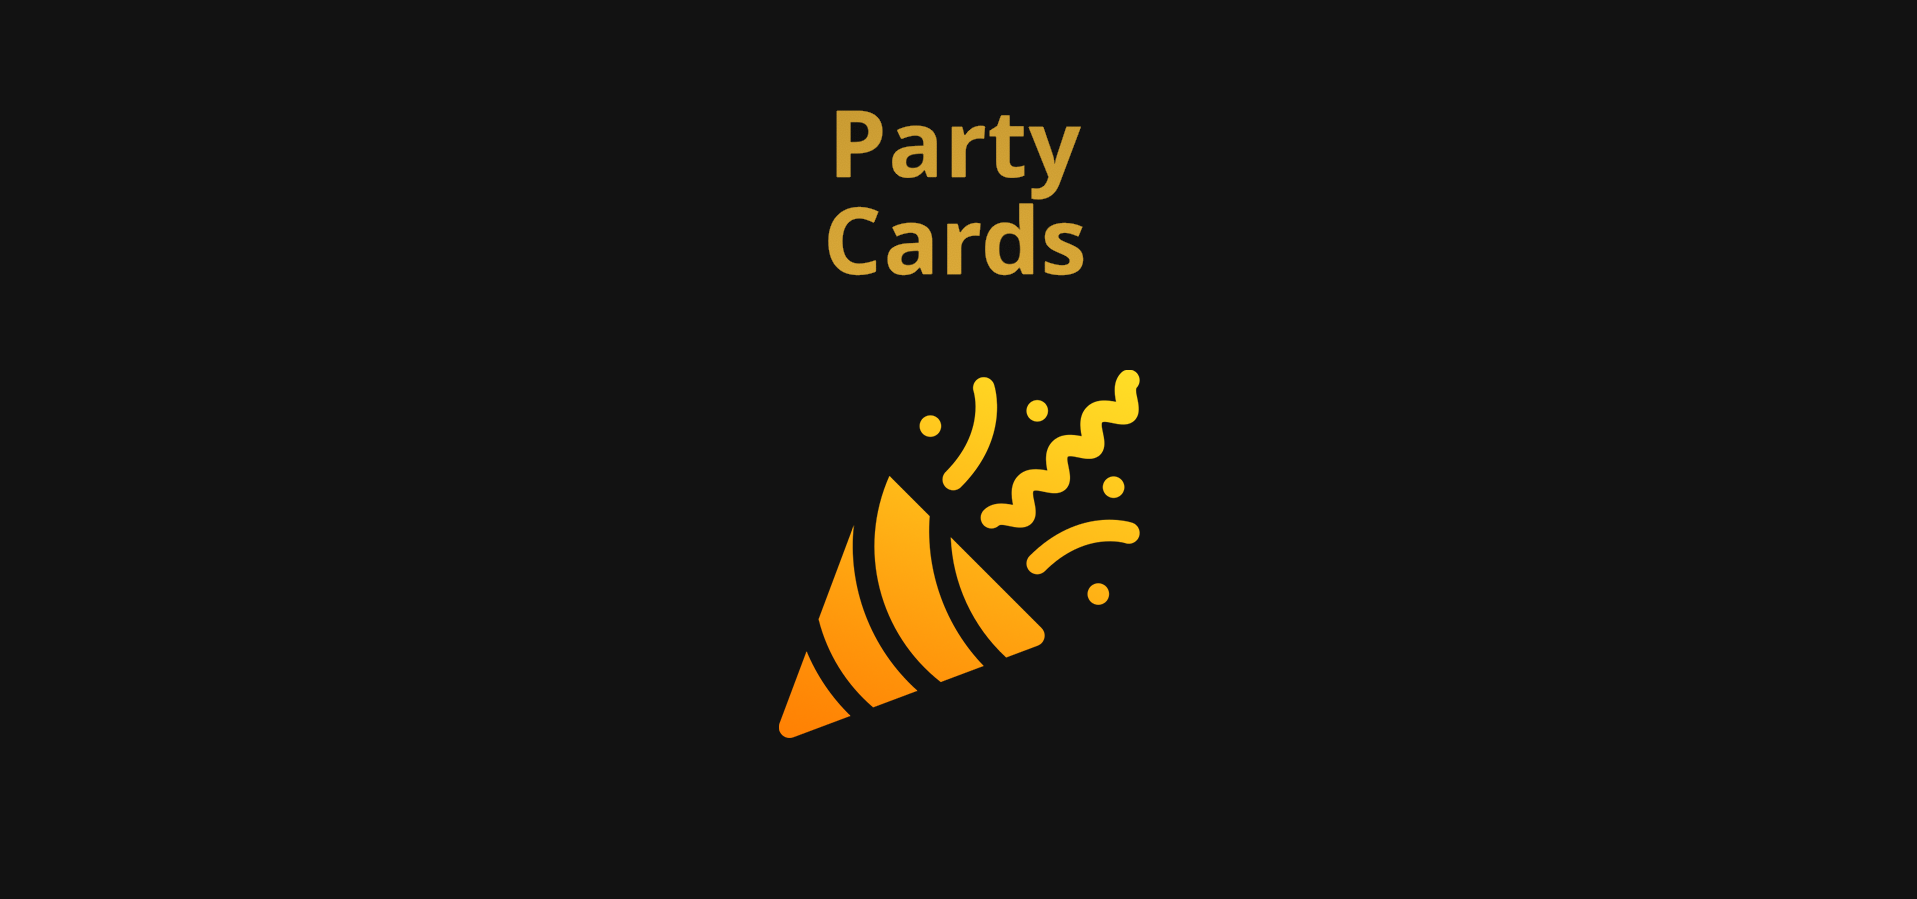
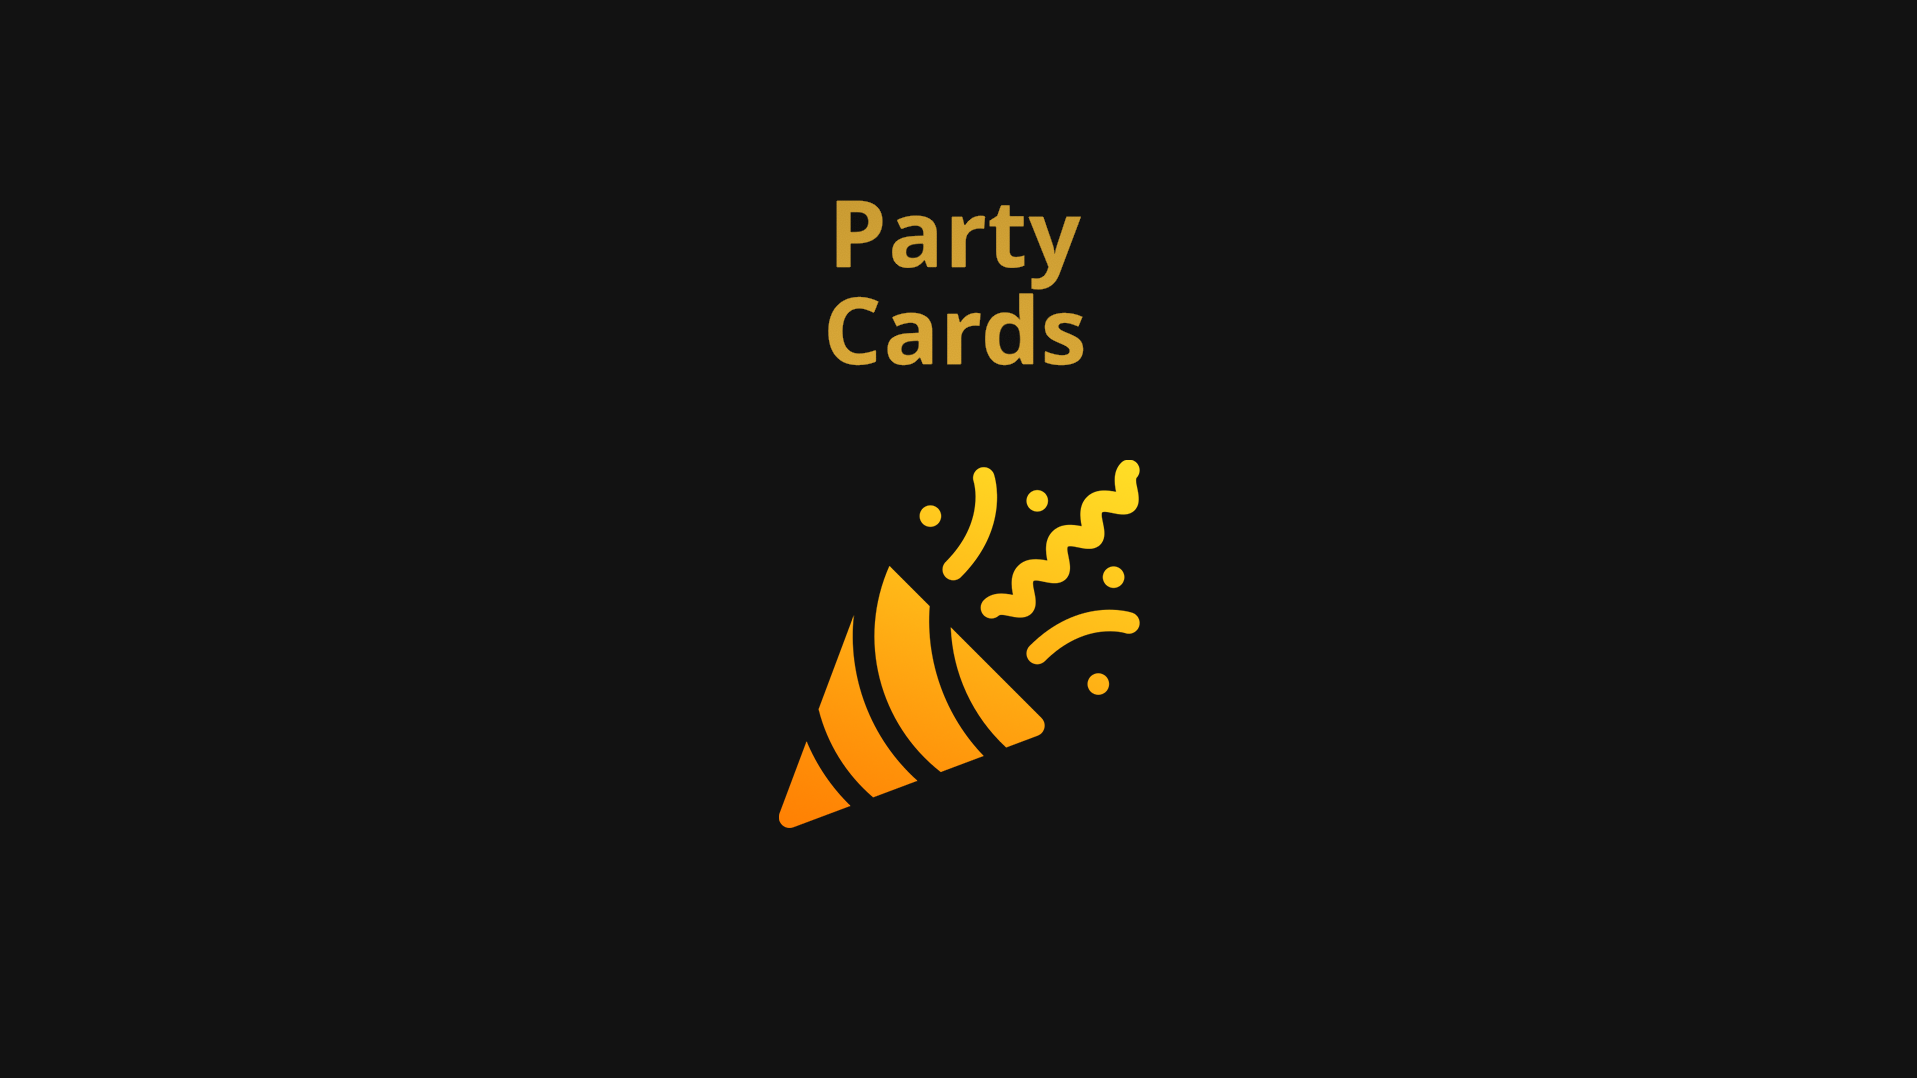
Added bubbles to stuff. Centered party cards images. Updated RagBrawl section

diff --git a/index.html b/index.html
@@ -52,14 +52,6 @@
 		// end if innerWidth
 		}); 
 	</script>
-	<script type='text/javascript'>
-  		window.smartlook||(function(d) {
-    		var o=smartlook=function(){ o.api.push(arguments)},h=d.getElementsByTagName('head')[0];
-    		var c=d.createElement('script');o.api=new Array();c.async=true;c.type='text/javascript';
-    		c.charset='utf-8';c.src='https://web-sdk.smartlook.com/recorder.js';h.appendChild(c);
-    		})(document);
-    		smartlook('init', 'c72ebc8b6f88d7aec70b2bd057baf31da15350ce', { region: 'eu' });
-	</script>
 </head>
 <body style="background-color: #101E2E">
 	<!-- NAVBAR -->
@@ -112,7 +104,7 @@
 					<div class="carousel-inner">
 						<div class="carousel-item active">
 							<div class="ratio ratio-16x9">
-								<iframe src="https://www.youtube.com/embed/vOSQc6iJS9c" title="RagBrawl trailer" class="float-end rounded-5 border-bottom border-end border-secondary border-5"></iframe>
+								<iframe src="https://www.youtube.com/embed/w8vdS8wCYsk" title="RagBrawl trailer" class="float-end rounded-5 border-bottom border-end border-secondary border-5" allow="accelerometer;"></iframe>
 							</div>
 						</div>
 						<div class="carousel-item">
@@ -131,7 +123,7 @@
 						</div>
 					</div>
 				</div>
-				<div class="d-flex flex-row justify-content-center justify-content-md-end">
+				<div class="d-flex flex-row justify-content-center">
 					<button class="btn btn-secondary" type="button" data-bs-target="#featuredCarousel" data-bs-slide="prev">
 						<span class="carousel-control-prev-icon" aria-hidden="true"></span>
 						<span class="visually-hidden">Previous</span>
@@ -145,7 +137,7 @@
 			</div>
 			<!-- Featured project content-->
 			<div class="col-10 offset-1 col-md-5 offset-md-0">
-				<div class="text-center text-md-start"><h2><u><strong>Stuffed!</strong></u></h2></div>
+				<div class="text-center text-md-start"><h2><u><strong>RagBrawl</strong></u></h2></div>
 				<!-- Bubbles -->
 				<div>
 					<span class="badge rounded-pill bg-secondary" style="font-size:15px">Unreal Engine 5</span>
@@ -156,7 +148,7 @@
 					<span class="badge rounded-pill bg-success" style="font-size:15px">UI</span>
 					<br></br>
 				</div>
-				<h6><strong>What it is:</strong> An online 8-player third-person shooter/party game. Take control of a Tuffling and win the attention of your creator. Players have access to a variety of movement options such as ragdolling, custom gravity, and grappling hooks. This concept was created as part of my college capstone and was passed through greenlight to continue production in the following semester.</h6>
+				<h6><strong>What it is:</strong> An online 12-player third-person shooter/party game. Take control of a Tuffling and win the attention of your creator. Players have access to a variety of movement options such as ragdolling, custom gravity, and grappling hooks. This concept was created as part of my college capstone and was passed through greenlight to continue production in the following semester.</h6>
 				<h6><strong>What I did:</strong></h6>
 				<ul>
 					<li><h6>Built on top of Unreal Engine's CharacterMovementComponent in C++ to create custom networked movement.</h6></li>
@@ -166,7 +158,7 @@
 					<li><h6>Made spatial audio play for all clients using Blueprints.</h6></li>
 				</ul>
 				<h6><strong>Team size:</strong> 13 (originally 7)</h6>
-				<h6><strong>Project time period:</strong> 7 months (September 2022 - March 2023)</h6>
+				<h6><strong>Project time period:</strong> 8 months (September 2022 - April 2023)</h6>
 			</div>
 		</div>
 	</div>
@@ -235,7 +227,7 @@
 						</button>
 					</div>
 					<!-- Bubbles -->
-					<div>
+					<div class="my-3">
 						<span class="badge rounded-pill bg-secondary" style="font-size:15px">Unity Engine</span>
 						<span class="badge rounded-pill bg-primary" style="font-size:15px">C#</span>
 						<span class="badge rounded-pill bg-success" style="font-size:15px">Networking</span>
@@ -243,7 +235,7 @@
 						<span class="badge rounded-pill bg-success" style="font-size:15px">Steamworks</span>
 					</div>
 					<!-- Content -->
-					<div class="text-start pt-3">
+					<div class="text-start">
 						<h5><strong>What it is:</strong> An online co-op game all about fighting bullies while trying to get to school. Players can pick up various items to boost their stats and use special weapons with their buddy. Back in my Day was created in 10 weeks for the <strong>2022 Ubisoft Game Lab Competition and was nominated for best game design</strong>. The game was created in Unity and networked using the Steam backend and Facepunch Steamworks. Check it out on itch.io here: <a href="https://jollycoopco.itch.io/backinmyday" class="link-info">jollycoopco.itch.io/backinmyday</a>.</h5>
 						<h5><strong>What I did:</strong></h5>
 						<ul>
@@ -296,7 +288,7 @@
 						</button>
 					</div>
 					<!-- Bubbles -->
-					<div>
+					<div class="my-3">
 						<span class="badge rounded-pill bg-secondary" style="font-size:15px">Unreal Engine 4</span>
 						<span class="badge rounded-pill bg-primary" style="font-size:15px">Blueprints</span>
 						<span class="badge rounded-pill bg-success" style="font-size:15px">Gameplay</span>
@@ -305,7 +297,7 @@
 						<span class="badge rounded-pill bg-success" style="font-size:15px">Game Jam</span>
 					</div>
 					<!-- Content -->
-					<div class="text-start pt-3">
+					<div class="text-start">
 						<h5><strong>What it is:</strong> A side-scrolling co-op game about moving a TV through a city. Each character can only see in front of them so players have to communicate to safely get through obstacles. Supports LAN / online play. This game was created in Unreal Engine for the ArtCenter 2021 Game Jam. It <strong>won the Best in Theme award</strong> and placed second in the community vote. Check it out on itch.io here: <a href="https://rhyssullivan.itch.io/busybeemovers" class="link-info">rhyssullivan.itch.io/busybeemovers</a>.</h5>
 						<h5><strong>What I did:</strong></h5>
 						<ul>
@@ -332,12 +324,16 @@
 								</div>
 							</div>
 							<div class="carousel-item">
-								<img src="images/partycards/partycardsscreenshot.webp" class="rounded-5 float-md-end img-fluid border-bottom border-end border-dark border-5" alt="Party Cards screenshot" style="max-height:500px">
+								<div class="d-flex justify-content-center align-items-center">
+									<img src="images/partycards/partycardsscreenshot.webp" class="rounded-5 img-fluid border-bottom border-end border-dark border-5" alt="Party Cards screenshot" style="max-height:500px">
+								</div>
 							</div>
 							<div class="carousel-item">
-								<video autoplay loop muted class="rounded-5 float-md-end border-bottom border-end border-dark border-5" style="max-height:500px">
-									<source src="images/partycards/partycardsgif.webm" alt="Party Cards throwing" />
-								</video>
+								<div class="d-flex justify-content-center align-items-center">
+									<video autoplay loop muted class="rounded-5 border-bottom border-end border-dark border-5" style="max-height:500px;">
+										<source src="images/partycards/partycardsgif.webm" alt="Party Cards throwing" />
+									</video>
+								</div>	
 							</div>
 						</div>
 					</div>
@@ -353,8 +349,16 @@
 							<span class="visually-hidden">Next</span>
 						</button>
 					</div>
+					<!-- Bubbles -->
+					<div class="my-3">
+						<span class="badge rounded-pill bg-secondary" style="font-size:15px">Unity Engine</span>
+						<span class="badge rounded-pill bg-primary" style="font-size:15px">C#</span>
+						<span class="badge rounded-pill bg-success" style="font-size:15px">UI</span>
+						<span class="badge rounded-pill bg-success" style="font-size:15px">Systems</span>
+						<span class="badge rounded-pill bg-success" style="font-size:15px">Mobile</span>
+					</div>
 					<!-- Content -->
-					<div class="text-start pt-3">
+					<div class="text-start">
 						<h5><strong>What it is:</strong> Party Cards is a mobile local multiplayer game aimed to be played, unsurprisingly, in party situations. I learned about and did paired programming with a recent Champlain College alumni for Party Cards. This project was still in the early stages so most of the work was for the backend and UI.</h5>
 						<h5><strong>What I did:</strong></h5>
 						<ul>
@@ -407,8 +411,17 @@
 							<span class="visually-hidden">Next</span>
 						</button>
 					</div>
+					<!-- Bubbles -->
+					<div class="my-3">
+						<span class="badge rounded-pill bg-secondary" style="font-size:15px">Unity Engine</span>
+						<span class="badge rounded-pill bg-primary" style="font-size:15px">C#</span>
+						<span class="badge rounded-pill bg-success" style="font-size:15px">2D</span>
+						<span class="badge rounded-pill bg-success" style="font-size:15px">Systems</span>
+						<span class="badge rounded-pill bg-success" style="font-size:15px">UI</span>
+						<span class="badge rounded-pill bg-success" style="font-size:15px">Gameplay</span>
+					</div>
 					<!-- Content -->
-					<div class="text-start pt-3">
+					<div class="text-start">
 						<h5><strong>What it is:</strong> Focus Pocus is a game where the player has to balance completing the task they are assigned and keeping boredom down by playing with other objects around the classroom. This project was aimed to educate younger students about ADHD who may not know about it.</h5>
 						<h5><strong>What I did:</strong></h5>
 						<ul>
